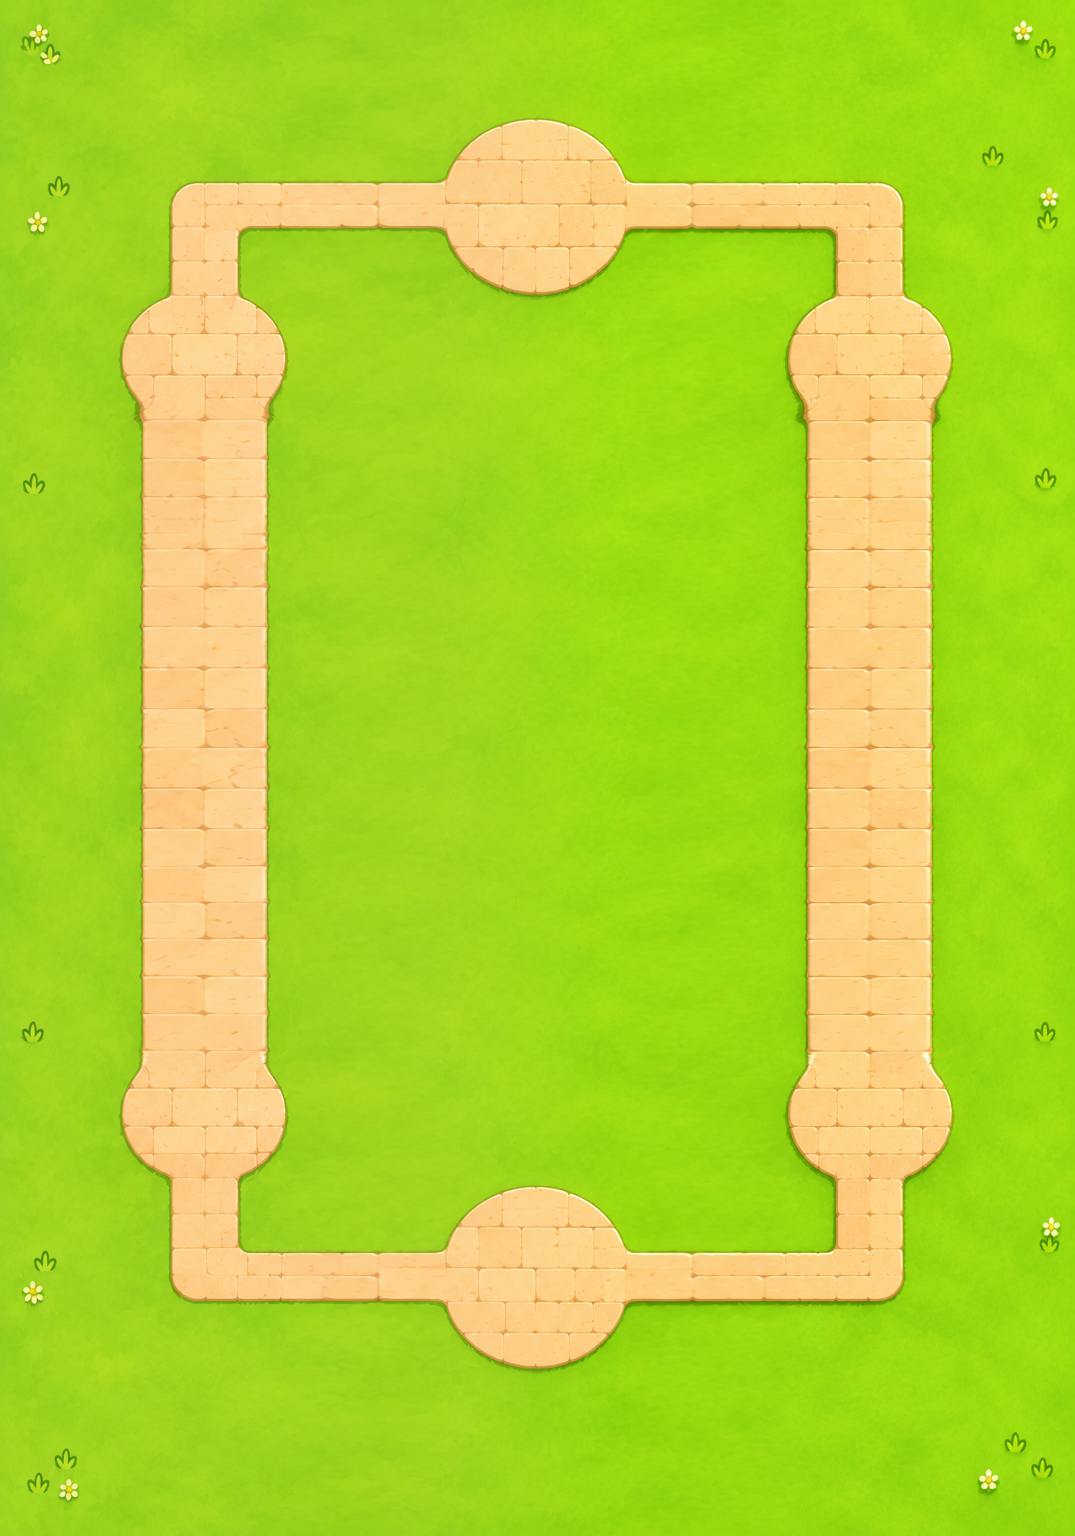
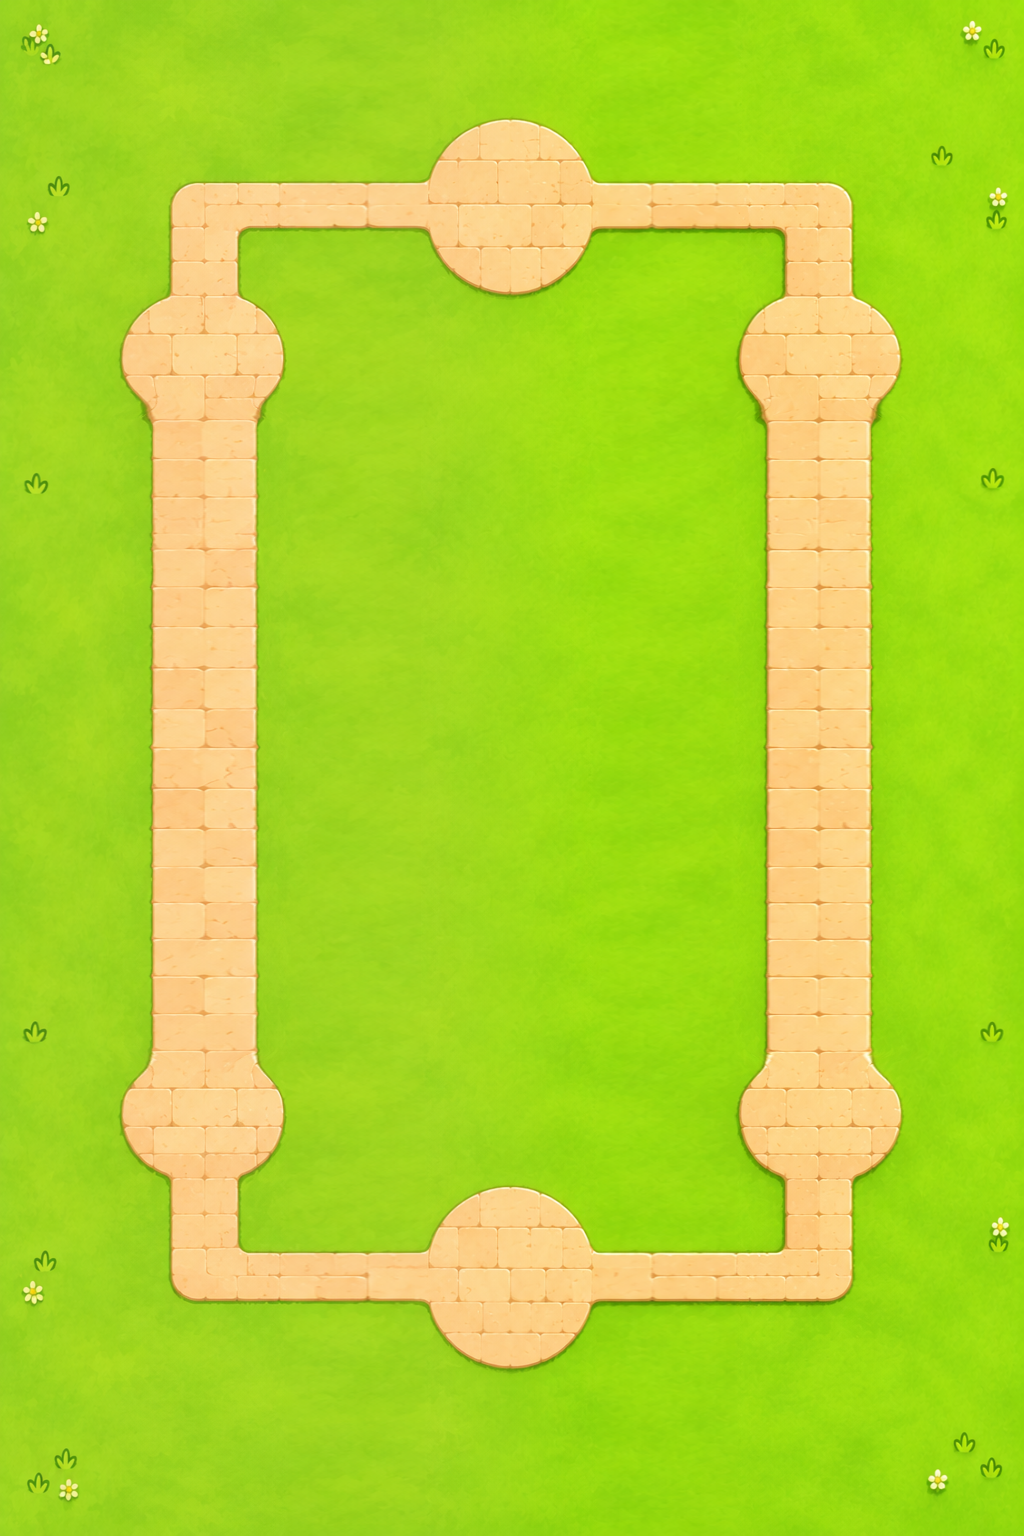
fix(tower-duel): align two-cell gates and let siege units push

diff --git a/examples/tower-duel/client/Assets/Editor/TowerDuelNetworkTests.cs b/examples/tower-duel/client/Assets/Editor/TowerDuelNetworkTests.cs
@@ -92,9 +92,9 @@ namespace TowerDuel.Editor
                 Require(f.Map.HasWall&&f.Map.id=="wall-gates-1","Canonical wall map was not imported");
                 float halfWidth=f.Map.width/2;
                 float gateHalf=f.Map.bridgeHalfWidth;
-                Require(f.Map.width==21&&f.Map.bridges[1]-f.Map.bridges[0]-2*gateHalf==10&&
-                        f.Map.bridges[0]-gateHalf+halfWidth==2.5f&&halfWidth-f.Map.bridges[1]-gateHalf==2.5f,
-                        "Expected ten central cells and two equal outer wall spans");
+                Require(f.Map.width==20&&gateHalf==1&&-f.Map.bridges[0]-gateHalf==5&&f.Map.bridges[1]-gateHalf==5&&
+                        f.Map.bridges[0]-gateHalf+halfWidth==3&&halfWidth-f.Map.bridges[1]-gateHalf==3,
+                        "Expected two-cell gates and five central wall cells on each side");
                 foreach(var tower in f.Map.towers)
                     if(tower.kind=="tower")Require(tower.x==f.Map.bridges[tower.x<0?0:1],"Front tower must line up with its gate");
                 var root=new GameObject("Fixed battlefield regression");DuelPresentation presentation=null;
@@ -297,27 +297,34 @@ namespace TowerDuel.Editor
                     Require(Mathf.Abs(p.x-targetX)<.001f&&Mathf.Abs(p.z-targetZ*forward)<.001f,"Wrong nearest destination for "+card.id+": "+p);
                     Require(f.Map.CanDeploy(seat,p,state,card),"Nearest destination contains an illegal formation member.");
                 }
-                Expect(-4.2f,-3.8f,guard,-4f,-3.5f);
-                Expect(-4.2f,.2f,guard,-4f,home);
-                Expect(-4.2f,3.2f,guard,-4f,home);
-                Expect(-6.7f,-7.7f,guard,-8f,-7.5f);
-                Expect(30,-3.2f,guard,10f,-3.5f);
-                Expect(30,-3.2f,squad,9f,-3.5f);
-                Expect(-4.2f,-1.7f,squad,-4f,Mathf.Min(-1.5f,home));
+                Expect(-4.2f,-3.8f,guard,-4.5f,-3.5f);
+                Require(!f.Map.TryNearestDeployment(seat,new Vector3(0,0,.2f*forward),state,guard,out _),
+                        "A troop dragged over the centre wall must stay invalid");
+                Require(!f.Map.TryNearestDeployment(seat,new Vector3(f.Map.bridges[0],0,0),state,guard,out _),
+                        "A troop dragged into a doorway must stay invalid");
+                Require(Mathf.Abs(f.Map.SnapDeployment(Vector3.zero,guard).x)==.5f,
+                        "A map with an even width must have no cell centred on the seam");
+                Expect(-4.2f,3.2f,guard,-4.5f,home);
+                Expect(-6.7f,-7.7f,guard,-7.5f,-7.5f);
+                Expect(30,-3.2f,guard,9.5f,-3.5f);
+                Expect(30,-3.2f,squad,8.5f,-3.5f);
+                Expect(-4.2f,-1.7f,squad,-4.5f,Mathf.Min(-1.5f,home));
                 foreach(var tower in state.towers)if(tower.seat==seat&&tower.kind=="tower"&&tower.x<0)tower.hp=0;
-                Expect(-4.2f,3.2f,guard,-4f,home);
+                Expect(-4.2f,3.2f,guard,-4.5f,home);
                 foreach(var tower in state.towers)if(tower.seat!=seat&&tower.kind=="tower"&&tower.x<0)tower.hp=0;
-                Expect(-4.2f,3.2f,guard,-4f,3.5f);
-                Expect(4.2f,3.2f,guard,f.Map.HasWall?4f:-.5f,f.Map.HasWall?home:3.5f);
-                Expect(-4.2f,5.4f,squad,-4f,f.Map.HasWall?3.5f:4.5f);
+                Expect(-4.2f,3.2f,guard,-4.5f,3.5f);
+                Require(!f.Map.CanDeploy(seat,new Vector3(0,0,3*forward),state,guard),
+                        "A single destroyed tower must not unlock the centre seam");
+                Expect(4.2f,3.2f,guard,f.Map.HasWall?4.5f:-.5f,f.Map.HasWall?home:3.5f);
+                Expect(-4.2f,5.4f,squad,-4.5f,f.Map.HasWall?3.5f:4.5f);
                 state=f.State(102);state.seat=seat;
-                Expect(-4.2f,3.2f,guard,-4f,home);
+                Expect(-4.2f,3.2f,guard,-4.5f,home);
                 Expect(-4.24f,3.16f,spell,-4.24f,3.16f);
-                Expect(30,40,spell,10.5f,15);
+                Expect(30,40,spell,10,15);
                 state.energy=0;
-                Expect(-4.2f,.2f,guard,-4f,home);
+                Expect(-4.2f,-.7f,guard,-4.5f,home);
                 f.Deliver(state);
-                Require(!f.Session.Deploy(new Vector3(-4f,0,-2.5f*forward)),"Nearest destination bypassed the energy check.");
+                Require(!f.Session.Deploy(new Vector3(-4.5f,0,-2.5f*forward)),"Nearest destination bypassed the energy check.");
                 Require(!f.Map.TryNearestDeployment(seat,new Vector3(float.NaN,0,0),state,guard,out _),"Nonfinite aim resolved to a cell.");
                 Require(!f.Map.TryNearestDeployment(seat,new Vector3(0,0,float.PositiveInfinity),state,spell,out _),"Nonfinite spell aim resolved to a point.");
                 var blocked=new DuelMap{width=1,length=1,deploymentCellSize=1,riverHalfWidth=1.5f};

diff --git a/examples/tower-duel/server/navigation.go b/examples/tower-duel/server/navigation.go
@@ -52,13 +52,16 @@ func (w *match) deploymentPointFor(seat int, p point, radius float64) bool {
 	if depth < bank || depth > w.Map.barrierHalfWidth()+w.Map.PocketDepth {
 		return false
 	}
+	// Each destroyed tower unlocks its own half. The seam belongs to both.
+	left, right := false, false
 	for _, tower := range w.Towers {
-		if tower.Seat != seat && tower.Kind == "tower" && tower.HP == 0 &&
-			((tower.X < 0 && p.X <= 0) || (tower.X > 0 && p.X >= 0)) {
-			return w.walkableFor(p, radius, false)
+		if tower.Seat != seat && tower.Kind == "tower" && tower.HP == 0 {
+			left = left || tower.X < 0
+			right = right || tower.X > 0
 		}
 	}
-	return false
+	annexed := (p.X < 0 && left) || (p.X > 0 && right) || (p.X == 0 && left && right)
+	return annexed && w.walkableFor(p, radius, false)
 }
 
 func (w *match) nearestBridge(seat int, x float64) float64 {
@@ -120,7 +123,7 @@ func (w *match) route(from, to point, stopDistance, laneX float64, mover *unit, 
 	}
 	occupied := make([]bool, cols*rows)
 	for _, other := range units {
-		if other == mover || other.State.Airborne != mover.State.Airborne || other.State.HP <= 0 || other.State.Seat == mover.State.Seat {
+		if !blocksMovement(mover, other) {
 			continue
 		}
 		centre := index(position(other.State))
@@ -217,11 +220,17 @@ func (w *match) route(from, to point, stopDistance, laneX float64, mover *unit, 
 	return nil
 }
 
+// Siege units let the weighted collision solver push defenders aside.
+func blocksMovement(mover, other *unit) bool {
+	return mover.State.Kind != "siege" && other != mover && other.State.HP > 0 &&
+		other.State.Seat != mover.State.Seat && other.State.Airborne == mover.State.Airborne
+}
+
 func clearUnits(from, to point, mover *unit, units []*unit) bool {
 	dx, dz := to.X-from.X, to.Z-from.Z
 	length := dx*dx + dz*dz
 	for _, other := range units {
-		if other == mover || other.State.Airborne != mover.State.Airborne || other.State.HP <= 0 || other.State.Seat == mover.State.Seat {
+		if !blocksMovement(mover, other) {
 			continue
 		}
 		p := position(other.State)
@@ -438,7 +447,7 @@ func (w *match) move(u *unit, goal entity, units []*unit) {
 				return false
 			}
 			for _, other := range units {
-				if other != u && !other.State.Airborne && other.State.Seat != u.State.Seat && other.State.HP > 0 && distance(v, position(other.State)) < u.State.Radius+other.State.Radius-.015 {
+				if blocksMovement(u, other) && distance(v, position(other.State)) < u.State.Radius+other.State.Radius-.015 {
 					return false
 				}
 			}

diff --git a/examples/tower-duel/server/collision_test.go b/examples/tower-duel/server/collision_test.go
@@ -68,3 +68,40 @@ func TestOpposingSoldiersAlsoSeparate(t *testing.T) {
 		t.Fatal("opponents did not collide", a.State, b.State)
 	}
 }
+
+func TestSiegePushesDefendersStraightThroughGate(t *testing.T) {
+	for seat := range 2 {
+		w := playingMatch(t)
+		w.Rules.TowerDamage = 0
+		direction := 1.0
+		if seat == 1 {
+			direction = -1
+		}
+		lane := w.Map.Bridges[seat]
+		siege := testSoldier(101, seat, "siege", lane, -2.5*direction)
+		siege.State.Radius = w.Rules.ByID["siege"].bodyRadius()
+		siege.LaneX = lane
+		front := testSoldier(102, 1-seat, "guard", lane, -1.7*direction)
+		front.State.Radius = w.Rules.ByID["guard"].bodyRadius()
+		front.Cooldown = 10000
+		back := testSoldier(103, 1-seat, "archer", lane, -.9*direction)
+		back.State.Radius, back.Cooldown = w.Rules.ByID["archer"].bodyRadius(), front.Cooldown
+		w.Units[101], w.Units[102], w.Units[103] = siege, front, back
+		for range 180 {
+			w.step()
+			for _, u := range []*unit{siege, front, back} {
+				if u.State.X != lane || !w.walkableFor(position(u.State), u.State.Radius, false) {
+					t.Fatalf("seat %d: ground unit sidestepped or entered terrain: %+v", seat, u.State)
+				}
+			}
+			if siege.State.Z*direction >= .5 {
+				break
+			}
+		}
+		if siege.State.Z*direction < .5 || front.State.Z*direction <= siege.State.Z*direction ||
+			back.State.Z*direction <= front.State.Z*direction || siege.State.HitTick != 0 {
+			t.Fatalf("seat %d: expected siege to push both defenders without attacking them: %v %v %v",
+				seat, position(siege.State), position(front.State), position(back.State))
+		}
+	}
+}

diff --git a/examples/tower-duel/client/Assets/Scripts/DuelProtocol.cs b/examples/tower-duel/client/Assets/Scripts/DuelProtocol.cs
@@ -77,9 +77,14 @@ namespace TowerDuel
             if(depth>-bank)
             {
                 if(depth<bank||depth>BarrierHalfWidth+pocketDepth)return false;
-                bool annexed=false;
+                bool left=false,right=false;
                 foreach(var tower in state.towers)
-                    if(tower.seat!=seat&&tower.kind=="tower"&&tower.hp==0&&((tower.x<0&&point.x<=0)||(tower.x>0&&point.x>=0)))annexed=true;
+                {
+                    if(tower.seat==seat||tower.kind!="tower"||tower.hp!=0)continue;
+                    left|=tower.x<0;
+                    right|=tower.x>0;
+                }
+                bool annexed=(point.x<0&&left)||(point.x>0&&right)||(point.x==0&&left&&right);
                 if(!annexed)return false;
             }
             foreach (var tower in state.towers)
@@ -102,6 +107,8 @@ namespace TowerDuel
                 nearest=new Vector3(Mathf.Clamp(point.x,-width*.5f,width*.5f),point.y,Mathf.Clamp(point.z,-length*.5f,length*.5f));
                 return true;
             }
+            // Dropping a troop on the wall or in a doorway is invalid.
+            if(HasWall&&Mathf.Abs(point.z)<=wallHalfWidth)return false;
             var snapped=SnapDeployment(point,card);
             if(CanDeploy(seat,snapped,state,card)){nearest=snapped;return true;}
             // Measure from the original aim, including every member of a squad in legality checks.

diff --git a/examples/tower-duel/server/terrain_test.go b/examples/tower-duel/server/terrain_test.go
@@ -5,9 +5,8 @@ import "testing"
 func TestWallBlocksExceptGatesAndAllowsAmbushDeployment(t *testing.T) {
 	w := playingMatch(t)
 	leftGate, rightGate := w.Map.Bridges[0], w.Map.Bridges[1]
-	gateHalf, halfWidth := w.Map.BridgeHalfWidth, w.Map.Width/2
-	if rightGate-leftGate-2*gateHalf != 10 || halfWidth+leftGate-gateHalf != 2.5 ||
-		halfWidth-rightGate-gateHalf != 2.5 {
+	gateHalf := w.Map.BridgeHalfWidth
+	if w.Map.Width != 20 || gateHalf != 1 || -leftGate-gateHalf != 5 || rightGate-gateHalf != 5 {
 		t.Fatal("expected ten central cells and two equal outer wall spans")
 	}
 	if w.walkable(point{0, 0}) || w.walkable(point{4.9, 0}) || w.walkable(point{9, 0}) {
@@ -23,7 +22,7 @@ func TestWallBlocksExceptGatesAndAllowsAmbushDeployment(t *testing.T) {
 		if seat == 1 {
 			z = 1.5
 		}
-		for _, x := range []float64{-10, 10} {
+		for _, x := range []float64{-9.5, 9.5} {
 			if !w.deploymentPoint(seat, point{x, z}) {
 				t.Fatal("outermost cell must accept a guard", seat, x)
 			}

diff --git a/examples/tower-duel/server/deployment_test.go b/examples/tower-duel/server/deployment_test.go
@@ -30,7 +30,7 @@ func TestDestroyedEnemyTowerUnlocksOnlyItsPocket(t *testing.T) {
 						w.Towers[i].HP = 0
 					}
 				}
-				for i, p := range []point{{-lane, 3 * forward}, {lane, 0}, {lane, 6 * forward}, {11, 3 * forward}, {0, 11 * forward}} {
+				for i, p := range []point{{-lane, 3 * forward}, {0, 3 * forward}, {0, 0}, {lane, 0}, {lane, 6 * forward}, {11, 3 * forward}, {0, 11 * forward}} {
 					if r := w.deploy(seat, w.ID, uint64(i+3), "guard", p.X, p.Z); r.Accepted || r.Reason != "invalid_placement" {
 						t.Fatalf("pocket admitted forbidden position %+v: %+v", p, r)
 					}

diff --git a/examples/tower-duel/server/navigation_test.go b/examples/tower-duel/server/navigation_test.go
@@ -141,7 +141,7 @@ func TestMarchHugsAlliedBuildingBeforeRejoiningLane(t *testing.T) {
 		x    float64
 	}{
 		{"behind_keep", 0},
-		{"outer_rear_corner", -10},
+		{"outer_rear_corner", -9.5},
 	} {
 		for seat := range 2 {
 			t.Run(fmt.Sprintf("%s/seat%d", spawn.name, seat), func(t *testing.T) {
